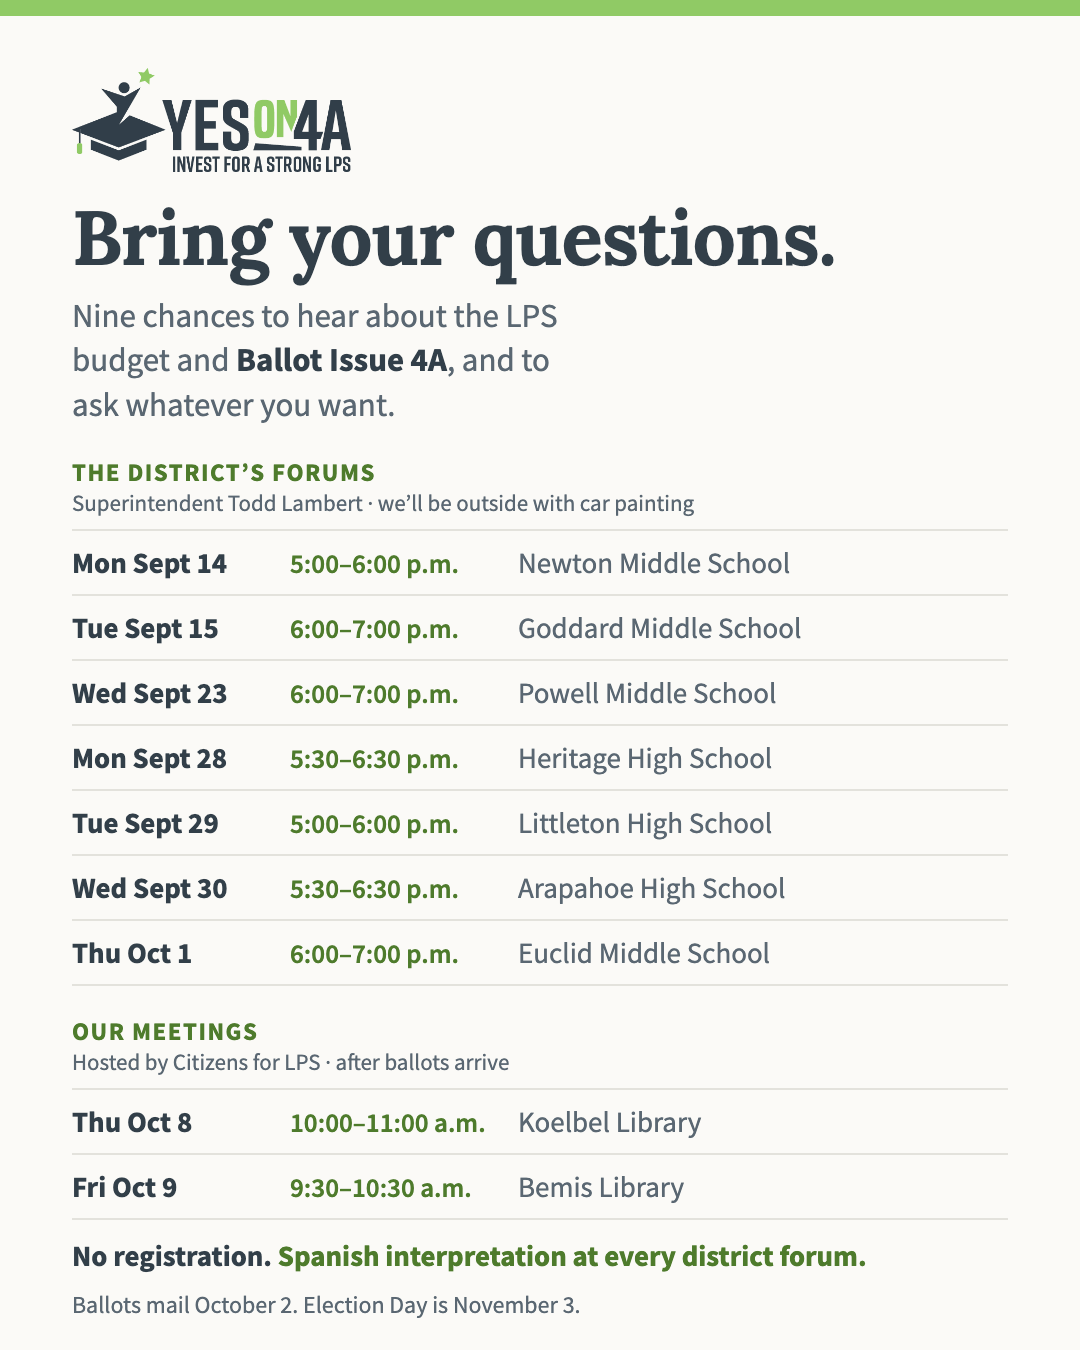
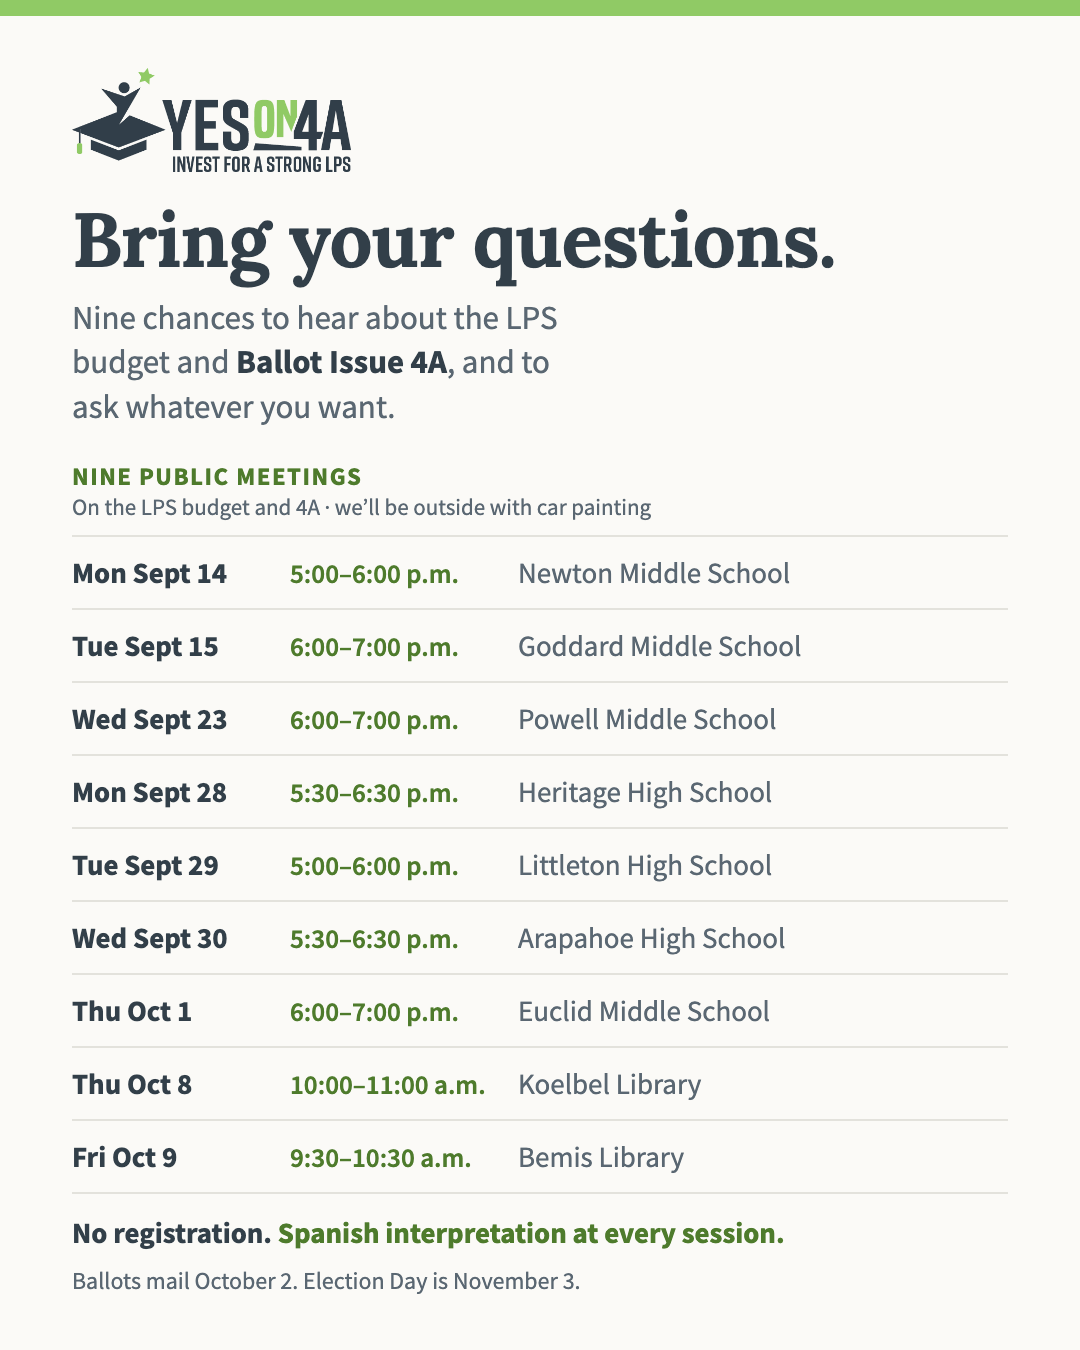
All nine meetings are one list; the campaign runs none of them
"I'm telling you they are confirmed. Put them on the site and update
the post to show that these are all the same kind of event. There is
no difference between these last two and the first ones that are
already available on the official campaign website. None are run by
the campaign."

Reverses the split I introduced in 20d8950. I read "the campaign is
adding a few additional information meetings" as "the campaign is
hosting them" and built a whole second track on that inference —
separate data block, separate site section, separate invite draft,
separate group on the card. Adding a session to a schedule is not
hosting it.

Koelbel and Bemis now sit in CAMPAIGN.forums with the other seven.
campaignMeetings is gone, along with its renderer and invite draft.
The card is one list of nine again. Site copy says nine meetings, the
campaign runs none of them, and volunteers are outside with car
painting — which is the honest version of what the two-track rule
actually requires here.

The brief carries the correction rather than just the corrected fact,
because the old text had an emphatic warning never to merge the two
tables; a future pass reading that would re-split them. It now says
to ask who RUNS the room before inventing a second track.

forums.lateAdditionNote keeps the provenance visible: Oct 8 and 9 are
campaign-confirmed and not yet on the district's Dollars and Sense
page, which still lists seven.

Smoke updated 7 -> 9 and now also asserts no separate committee list.
[…]

diff --git a/js/data.js b/js/data.js
@@ -314,6 +314,66 @@ const CAMPAIGN = {
     // painting (campaign, 2026-09-09). Inside is the district
     // informing voters; outside is advocacy. Copy says both, so a
     // reader always knows which side of the door they're on.
+    campaignOutside: 'Volunteers will be outside every one of these painting car windows. The campaign runs none of the meetings themselves.',
+    sessions: [
+      { date: '2026-09-14', time: '5:00–6:00 p.m.', place: 'Newton Middle School' },
+      { date: '2026-09-15', time: '6:00–7:00 p.m.', place: 'Goddard Middle School' },
+      { date: '2026-09-23', time: '6:00–7:00 p.m.', place: 'Powell Middle School' },
+      { date: '2026-09-28', time: '5:30–6:30 p.m.', place: 'Heritage High School' },
+      { date: '2026-09-29', time: '5:00–6:00 p.m.', place: 'Littleton High School' },
+      { date: '2026-09-30', time: '5:30–6:30 p.m.', place: 'Arapahoe High School' },
+      { date: '2026-10-01', time: '6:00–7:00 p.m.', place: 'Euclid Middle School' },
+      // Campaign-confirmed 2026-09-09; same kind of event as the seven
+      // above (the committee runs none of them). Not yet on the
+      // district's Dollars and Sense page, which still lists seven.
+      { date: '2026-10-08', time: '10:00–11:00 a.m.', place: 'Koelbel Library' },
+      { date: '2026-10-09', time: '9:30–10:30 a.m.', place: 'Bemis Library' },
+    ],
+    lateAdditionNote: 'The October 8 and 9 sessions were confirmed by the campaign and are not yet on the district\u2019s page.',
+  },
+
+  /*
+   * Tax-impact model. Every value labeled an estimate until the
+   * district publishes official figures (it has said it will).
+   *   annual $ = home value x assessment rate x (mills / 1000)
+   */
+  taxCalc: {
+    // "2026 Residential School Assessment Rate - 7.05%" — Colorado
+    // Division of Property Taxation, fetched 2026-08-26.
+    residentialAssessmentRate: { value: 0.0705, verified: true,
+      sourceId: 'dptRate',
+      note: '2026 rate; the State Board of Equalization can adjust in future years' },
+    // Derived from the district's own official estimate ("approximately
+    // $25 annually for every $100,000 of home value" — Superintendent's
+    // letter, May 29, 2026): 25 / 7.05 ≈ 3.5 mills. The certified mill
+    // figure arrives with county ballot certification (~September).
+    estimatedMills: { value: 3.5, verified: false,
+      sourceId: 'lpsDeficitLetter',
+      note: 'Derived from the district’s $25-per-$100K estimate; certified ballot language will set the final figure' },
+    perHundredK: { value: 25, verified: true, sourceId: 'lpsDeficitLetter' },
+    // The district's own worked example ("a $600,000 home would equal
+    // less than $13 per month") — the calculator opens on it so a
+    // reader can check the district's arithmetic before their own.
+    districtExample: { homeValue: 600000, monthlyText: 'less than $13 a month', verified: true,
+      sourceId: 'lpsDollarsAndSense' },
+    defaultHomeValue: 600000,
+  },
+
+  /*
+   * The district's Dollars and Sense community forums — Superintendent
+   * Todd Lambert presenting the budget and the measure, then Q&A. These
+   * are district-track informational meetings (not campaign events):
+   * our tool's job is to help a supporter bring a neighbor. No
+   * registration; Spanish interpretation at every session.
+   * Dates are ISO local; times as the district prints them.
+   */
+  forums: {
+    sourceId: 'lpsDollarsAndSense',
+    host: 'Superintendent Todd Lambert',
+    // The committee is outside the room at each of these with car
+    // painting (campaign, 2026-09-09). Inside is the district
+    // informing voters; outside is advocacy. Copy says both, so a
+    // reader always knows which side of the door they're on.
     campaignOutside: 'Volunteers will be outside each forum painting car windows. The meeting inside is the district\u2019s.',
     sessions: [
       { date: '2026-09-14', time: '5:00–6:00 p.m.', place: 'Newton Middle School' },
@@ -323,28 +383,13 @@ const CAMPAIGN = {
       { date: '2026-09-29', time: '5:00–6:00 p.m.', place: 'Littleton High School' },
       { date: '2026-09-30', time: '5:30–6:30 p.m.', place: 'Arapahoe High School' },
       { date: '2026-10-01', time: '6:00–7:00 p.m.', place: 'Euclid Middle School' },
-    ],
-  },
-
-  /*
-   * The COMMITTEE's own information meetings — a separate track from
-   * `forums` above and never merged with them. Citizens for LPS hosts
-   * these and may advocate at them; listing a campaign event as a
-   * district forum misattributes advocacy to LPS (CRS 1-45-117) and
-   * the consequence lands on the district. Two lists, two labels.
-   * Both fall after ballots mail Oct 2 — attendees have a ballot.
-   */
-  campaignMeetings: {
-    host: 'Citizens for LPS',
-    // Campaign-reported 2026-09-09. There is NO public listing yet, so
-    // this carries a plain-language note instead of a sourceId — citing
-    // the Aug 19 news post would imply a source that doesn't cover it.
-    // Add sourceId once these appear on citizensforlps.org/upcoming_events.
-    sourceNote: 'Reported by the campaign on September 9, 2026. Not yet listed publicly \u2014 check',
-    sessions: [
+      // Campaign-confirmed 2026-09-09; same kind of event as the seven
+      // above (the committee runs none of them). Not yet on the
+      // district's Dollars and Sense page, which still lists seven.
       { date: '2026-10-08', time: '10:00–11:00 a.m.', place: 'Koelbel Library' },
       { date: '2026-10-09', time: '9:30–10:30 a.m.', place: 'Bemis Library' },
     ],
+    lateAdditionNote: 'The October 8 and 9 sessions were confirmed by the campaign and are not yet on the district\u2019s page.',
   },
 
   /*

diff --git a/branding/social/forums-card.html b/branding/social/forums-card.html
@@ -63,16 +63,16 @@ li{display:flex;align-items:baseline;gap:var(--colGap);
 body.portrait{width:1080px;height:1350px;
   --bar:16px; --padX:72px; --padY:52px; --logo:104px;
   --h1:76px; --sub:33px; --list:29px; --listSm:27px; --note:29px; --fine:24px;
-  --group:25px; --groupSub:23px; --groupGap:12px; --groupTop:30px;
-  --gap1:26px; --gap2:16px; --gap3:30px; --row:13px;
+  --group:25px; --groupSub:23px; --groupGap:14px; --groupTop:0px;
+  --gap1:28px; --gap2:16px; --gap3:32px; --row:17px;
   --wWhen:200px; --wTime:210px; --colGap:18px}
 
 /* ---- 1080x1080 — square feed / profile grid ---- */
 body.square{width:1080px;height:1080px;
   --bar:14px; --padX:66px; --padY:44px; --logo:88px;
   --h1:58px; --sub:27px; --list:25px; --listSm:23px; --note:25px; --fine:21px;
-  --group:22px; --groupSub:20px; --groupGap:9px; --groupTop:22px;
-  --gap1:18px; --gap2:12px; --gap3:20px; --row:8px;
+  --group:22px; --groupSub:20px; --groupGap:10px; --groupTop:0px;
+  --gap1:20px; --gap2:12px; --gap3:22px; --row:11px;
   --wWhen:186px; --wTime:196px; --colGap:16px}
 
 /* ---- 1080x1920 — Stories / Reels. Platform UI eats the top and bottom,
@@ -80,8 +80,8 @@ body.square{width:1080px;height:1080px;
 body.story{width:1080px;height:1920px;
   --bar:18px; --padX:78px; --padY:200px; --logo:124px;
   --h1:92px; --sub:38px; --list:34px; --listSm:31px; --note:36px; --fine:27px;
-  --group:30px; --groupSub:27px; --groupGap:14px; --groupTop:34px;
-  --gap1:34px; --gap2:22px; --gap3:34px; --row:16px;
+  --group:30px; --groupSub:27px; --groupGap:16px; --groupTop:0px;
+  --gap1:36px; --gap2:24px; --gap3:36px; --row:21px;
   --wWhen:230px; --wTime:245px; --colGap:22px}
 
 /* ---- 1200x630 — link previews and shared-link cards. Too short to stack,
@@ -89,8 +89,8 @@ body.story{width:1080px;height:1920px;
 body.wide{width:1200px;height:630px;
   --bar:12px; --padX:56px; --padY:38px; --logo:74px;
   --h1:47px; --sub:24px; --list:23px; --listSm:21px; --note:22px; --fine:19px;
-  --group:20px; --groupSub:18px; --groupGap:6px; --groupTop:16px;
-  --gap1:14px; --gap2:10px; --gap3:0px; --row:6px;
+  --group:20px; --groupSub:18px; --groupGap:7px; --groupTop:0px;
+  --gap1:14px; --gap2:10px; --gap3:0px; --row:8px;
   --wWhen:160px; --wTime:0px; --colGap:16px}
 body.wide .sheet{display:grid;column-gap:46px;
   grid-template-columns:44% 1fr;
@@ -120,7 +120,7 @@ body.wide .sub{max-width:24ch}
   <p class="sub">Nine chances to hear about the LPS budget and <b>Ballot Issue&nbsp;4A</b>, and to ask whatever you want.</p>
 
   <div class="sched">
-    <p class="group">The district&rsquo;s forums<span>Superintendent Todd Lambert &middot; we&rsquo;ll be outside with car painting</span></p>
+    <p class="group">Nine public meetings<span>On the LPS budget and 4A &middot; we&rsquo;ll be outside with car painting</span></p>
     <ul>
       <li><span class="when">Mon Sept 14</span><span class="time">5:00–6:00 p.m.</span><span class="place">Newton Middle School</span></li>
       <li><span class="when">Tue Sept 15</span><span class="time">6:00–7:00 p.m.</span><span class="place">Goddard Middle School</span></li>
@@ -129,17 +129,13 @@ body.wide .sub{max-width:24ch}
       <li><span class="when">Tue Sept 29</span><span class="time">5:00–6:00 p.m.</span><span class="place">Littleton High School</span></li>
       <li><span class="when">Wed Sept 30</span><span class="time">5:30–6:30 p.m.</span><span class="place">Arapahoe High School</span></li>
       <li><span class="when">Thu Oct 1</span><span class="time">6:00–7:00 p.m.</span><span class="place">Euclid Middle School</span></li>
-    </ul>
-
-    <p class="group ours">Our meetings<span>Hosted by Citizens for LPS &middot; after ballots arrive</span></p>
-    <ul>
       <li><span class="when">Thu Oct 8</span><span class="time">10:00–11:00 a.m.</span><span class="place">Koelbel Library</span></li>
       <li><span class="when">Fri Oct 9</span><span class="time">9:30–10:30 a.m.</span><span class="place">Bemis Library</span></li>
     </ul>
   </div>
 
   <div class="foot">
-    <p class="note">No registration. <span>Spanish interpretation at every district forum.</span></p>
+    <p class="note">No registration. <span>Spanish interpretation at every session.</span></p>
     <p class="fine">Ballots mail October 2. Election Day is November 3.</p>
   </div>
 </div>

diff --git a/js/app.js b/js/app.js
@@ -81,12 +81,6 @@
   }
 
   document.addEventListener('click', (e) => {
-    const cmBtn = e.target.closest('[data-cmeeting]');
-    if (cmBtn) {
-      e.preventDefault();
-      inviteToCampaignMeeting(Number(cmBtn.dataset.cmeeting));
-      return;
-    }
     const forumBtn = e.target.closest('[data-forum]');
     if (forumBtn) {
       inviteToForum(Number(forumBtn.dataset.forum));
@@ -147,34 +141,6 @@
       .filter((s) => s.when >= today);
   }
 
-  function upcomingCampaignMeetings() {
-    const today = todayStart();
-    return CAMPAIGN.campaignMeetings.sessions
-      .map((s, i) => ({ ...s, i, when: localDate(s.date) }))
-      .filter((s) => s.when >= today);
-  }
-
-  function renderCampaignMeetings() {
-    const list = $('campaign-meeting-list');
-    if (!list) return;
-    const cm = CAMPAIGN.campaignMeetings;
-    const upcoming = upcomingCampaignMeetings();
-    if (!upcoming.length) { list.innerHTML = ''; return; }
-    list.innerHTML = `
-      <ul class="forum-list">${upcoming.map((s) => `
-        <li class="forum-row">
-          <div class="forum-when">
-            <span class="forum-day">${escHtml(fmtDay(s.when))}</span>
-            <span class="forum-time">${escHtml(s.time)}</span>
-          </div>
-          <div class="forum-place">${escHtml(s.place)}</div>
-          <button class="link-btn campaign-meeting-invite" data-cmeeting="${s.i}">Invite someone &rarr;</button>
-        </li>`).join('')}
-      </ul>
-      <p class="fine">Hosted by ${escHtml(cm.host)}. ${escHtml(cm.sourceNote)}
-        <a href="${CAMPAIGN.officialSite}" target="_blank" rel="noopener">citizensforlps.org</a> for updates.</p>`;
-  }
-
   function renderForums() {
     const list = $('forum-list');
     if (!list) return;
@@ -196,6 +162,7 @@
         </li>`).join('')}
       </ul>
       <p class="fine">No sign-up needed. Spanish interpretation at every session. ${src}</p>
+      <p class="fine">${escHtml(CAMPAIGN.forums.lateAdditionNote)}</p>
       <p class="fine">${escHtml(CAMPAIGN.forums.campaignOutside)} Come early if you want your car windows painted.</p>`;
   }
 
@@ -206,20 +173,6 @@
    */
   function forumInviteText(s) {
     return `The superintendent is taking questions about the LPS budget and 4A, the mill levy override, at ${s.place} on ${fmtDay(s.when)}, ${s.time.replace(/\.$/, '')}. No sign-up, and there is Spanish interpretation. Want to go with me? I'd like the company. And I'm voting yes.`;
-  }
-
-  function campaignMeetingInviteText(s) {
-    return `Citizens for LPS is holding an information meeting about 4A, the LPS mill levy override, at ${s.place} on ${fmtDay(s.when)}, ${s.time.replace(/\.$/, '')}. Ballots will already be in your mailbox. Bring your questions and I'll see you there. I'm voting yes.`;
-  }
-
-  function inviteToCampaignMeeting(i) {
-    const s = CAMPAIGN.campaignMeetings.sessions[i];
-    if (!s) return;
-    setDraft(campaignMeetingInviteText({ ...s, when: localDate(s.date) }));
-    cardTextTouched = false;
-    if ($('view-studio').hidden) showView('studio');
-    gotoStep(2);
-    $('studio-draft').focus();
   }
 
   function inviteToForum(i) {
@@ -1468,7 +1421,6 @@
   function init() {
     renderBallotSummary();
     renderForums();
-    renderCampaignMeetings();
     renderVoices();
     initPromptClicks();
     initDraft();

diff --git a/index.html b/index.html
@@ -106,24 +106,13 @@
 
         <h2 class="section-title">Ask the superintendent yourself. Bring someone.</h2>
         <p class="body">
-          The district is holding seven public forums this fall.
-          Superintendent Todd Lambert walks through the budget and 4A,
-          and then the room asks questions. These are the
-          district's meetings, so there is no campaigning in them. That
-          is also why a neighbor who hasn't decided will come if you
-          ask. So ask.
+          There are nine public meetings this fall on the budget and 4A,
+          and then the room asks questions. The campaign runs none of
+          them, so there is no campaigning inside. That is exactly why
+          a neighbor who hasn't decided will come if you ask. Our
+          volunteers will be outside with car painting. So ask.
         </p>
         <div id="forum-list"></div>
-
-        <h2 class="section-title">And two meetings that are ours</h2>
-        <p class="body">
-          Citizens for LPS is holding its own information meetings in
-          October, after ballots land. Different from the forums above:
-          these are the campaign's, so we can make the case at them and
-          answer the questions people actually have once the ballot is
-          on the kitchen table.
-        </p>
-        <div id="campaign-meeting-list"></div>
 
         <h2 class="section-title">What 4A is</h2>
         <div id="ballot-summary"></div>

diff --git a/docs/campaign/CAMPAIGN-BRIEF.md b/docs/campaign/CAMPAIGN-BRIEF.md
@@ -185,23 +185,31 @@ once) mean the campaign treats that floor as earned, not guaranteed.
   | Wed Sept 30 | 5:30–6:30 p.m. | Arapahoe High School |
   | Thu Oct 1 | 6:00–7:00 p.m. | Euclid Middle School |
 
-- **Campaign information meetings** (campaign, 2026-09-09) — hosted by
-  **Citizens for LPS**, not the district. These are the committee's own
-  events: it may advocate at them, and the "district-track" framing
-  above does NOT apply. Both land after ballots mail on October 2, so
-  attendees will have a ballot in hand.
+- **Two more sessions, same kind of event** (campaign, confirmed
+  2026-09-09). **None of these meetings are run by the campaign** —
+  all nine are public information meetings on the LPS budget and 4A,
+  and the committee's role at every one of them is the same: outside
+  the room, with car painting.
 
   | Date | Time | Place |
   |---|---|---|
   | Thu Oct 8 | 10:00–11:00 a.m. | Koelbel Library |
   | Fri Oct 9 | 9:30–10:30 a.m. | Bemis Library |
 
-  ⚠ Never merge this table into the district forum table. A campaign
-  meeting listed as a district forum misattributes advocacy to LPS,
-  which is the exact failure mode CRS 1-45-117 punishes — and it lands
-  on the district, not on us. Two tables, two labels, always. (Koelbel
-  is in Centennial and Bemis in Littleton, so together they cover both
-  halves of the electorate.)
+  These two are not yet on the district's Dollars and Sense page,
+  which still lists the original seven; they are campaign-confirmed.
+  Both fall after ballots mail on October 2, so attendees will have a
+  ballot in hand. Koelbel is in Centennial and Bemis in Littleton, so
+  together they reach both halves of the electorate.
+
+  **Correction (2026-09-09):** an earlier version of this brief split
+  these two off as committee-hosted events and warned against merging
+  them. That was wrong — it came from reading "the campaign is adding
+  a few additional information meetings" as "the campaign is hosting
+  them." Adding a session to the schedule is not hosting it. All nine
+  are one list. Ask who *runs* the room before inventing a second
+  track; the two-track rule is about the district/committee boundary,
+  and it does not apply here because the committee runs none of them.
 
 ## Key dates (researched Aug 2026 — see docs/research/colorado-compliance.md §7 for the full table with statutes)
 
@@ -210,7 +218,7 @@ once) mean the campaign treats that floor as earned, not guaranteed.
 | 2026-08-13 | Board places MLO on ballot | ✅ done |
 | 2026-09-01 | District community email announces the measure, the tax example, and the seven forums | ✅ done |
 | 2026-09-14 → 10-01 | Dollars and Sense Community Forums (seven; district-hosted; campaign outside with car painting) | scheduled |
-| 2026-10-08, 10-09 | Campaign information meetings — Koelbel Library, Bemis Library (committee-hosted) | scheduled |
+| 2026-10-08, 10-09 | Two more public information meetings — Koelbel Library, Bemis Library (same track as the seven above) | scheduled |
 | ~2026-09-04 | Ballot content certified to county (60 days) — **the measure is Ballot Issue 4A** | ✅ done (campaign-reported 2026-09-08; county link pending) |
 | **2026-09-18 (likely noon)** | **TABOR notice pro/con comments due to LPS DEO — hard, unrecoverable deadline; the FOR statement reaches every voter household free** | ⚠ VERIFY exact date/time NOW |
 | ~2026-10-02 | TABOR notice mailed to voters (30 days) | ⚠ VERIFY |

diff --git a/PARITY.md b/PARITY.md
@@ -59,7 +59,7 @@ everything else.
 | Feature | Web | Notes |
 |---|---|---|
 | Start — what this is + sourced ballot summary | ✅ | `?` |
-| District forums + campaign meetings, listed separately | ✅ | Two tracks never merged: `CAMPAIGN.forums` (district-hosted, committee outside with car painting) and `CAMPAIGN.campaignMeetings` (committee-hosted, Oct 8-9). Each gets its own invite draft |
+| Nine public meetings on the budget + 4A | ✅ | One list in `CAMPAIGN.forums`: 7 from the district's page plus Oct 8 Koelbel and Oct 9 Bemis, campaign-confirmed 2026-09-09. The campaign runs none of them and is outside each with car painting |
 | Official Yes on 4A brand — header lockup (light/dark), favicon set, app icons, OG card | ✅ | Generated from `branding/yes-on-4a/` by `tools/render_brand_assets.py`; site had NO icon of any kind before 2026-09-09. Lockup marks the site only — share cards keep the star motif (Decision 058 amendment) |
 | Share Studio — four-step guided wizard (who you are → your words → a picture → send it) | ✅ | `?view=studio&step=N`; voice prompts seed the draft; per-network guided panels with micro-steps; Nextdoor ShareKit, SMS, WhatsApp, LinkedIn compose, Threads, Bluesky prefill; FB/IG/Messenger copy-then-open (prefill banned by Meta policy); native share sheet on mobile; sent-state tally |
 | Send paths are real links + same-gesture copy + visible fallback (Decision 061) | ✅ | Anchors not `window.open`; synchronous clipboard copy; "Didn't open?" line with plain link; "Copy my words" on every panel; verified in Chrome with a real click into the real Facebook composer (2026-09-02) |
